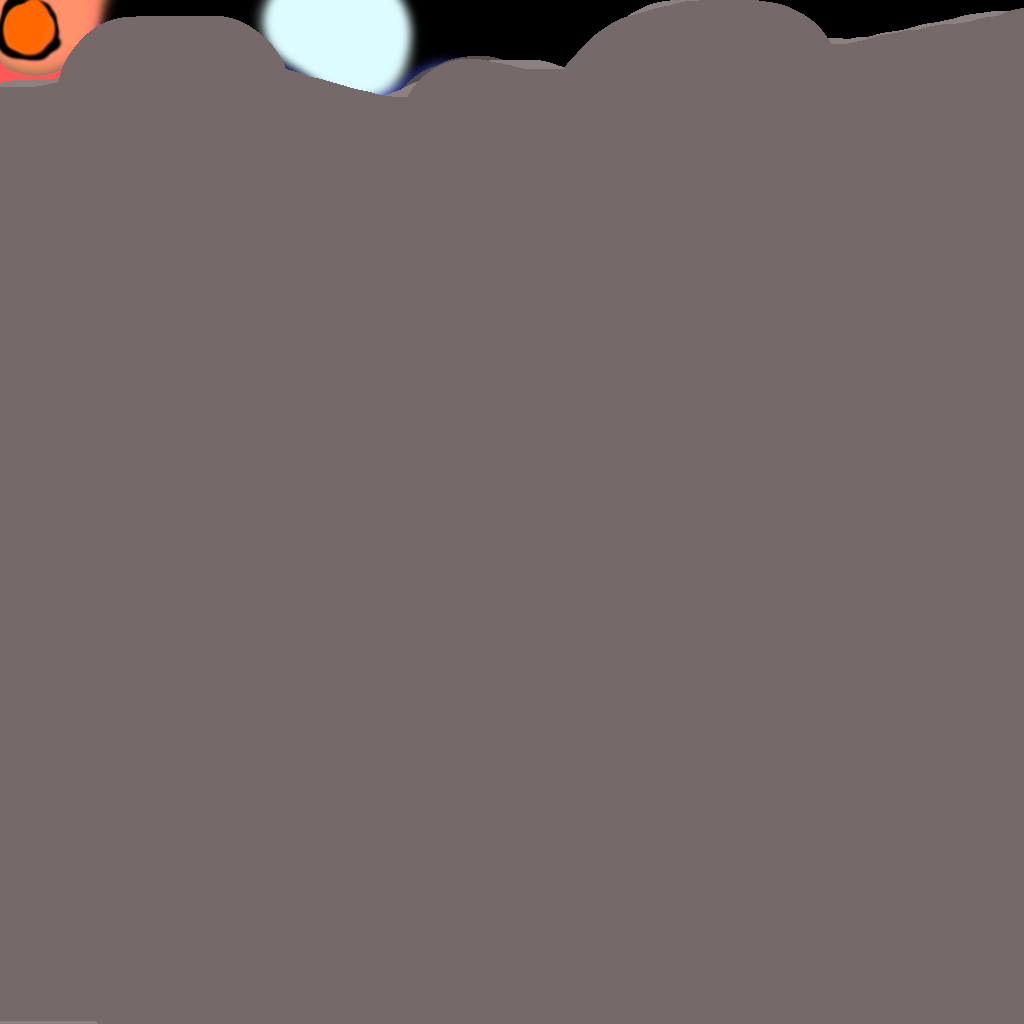
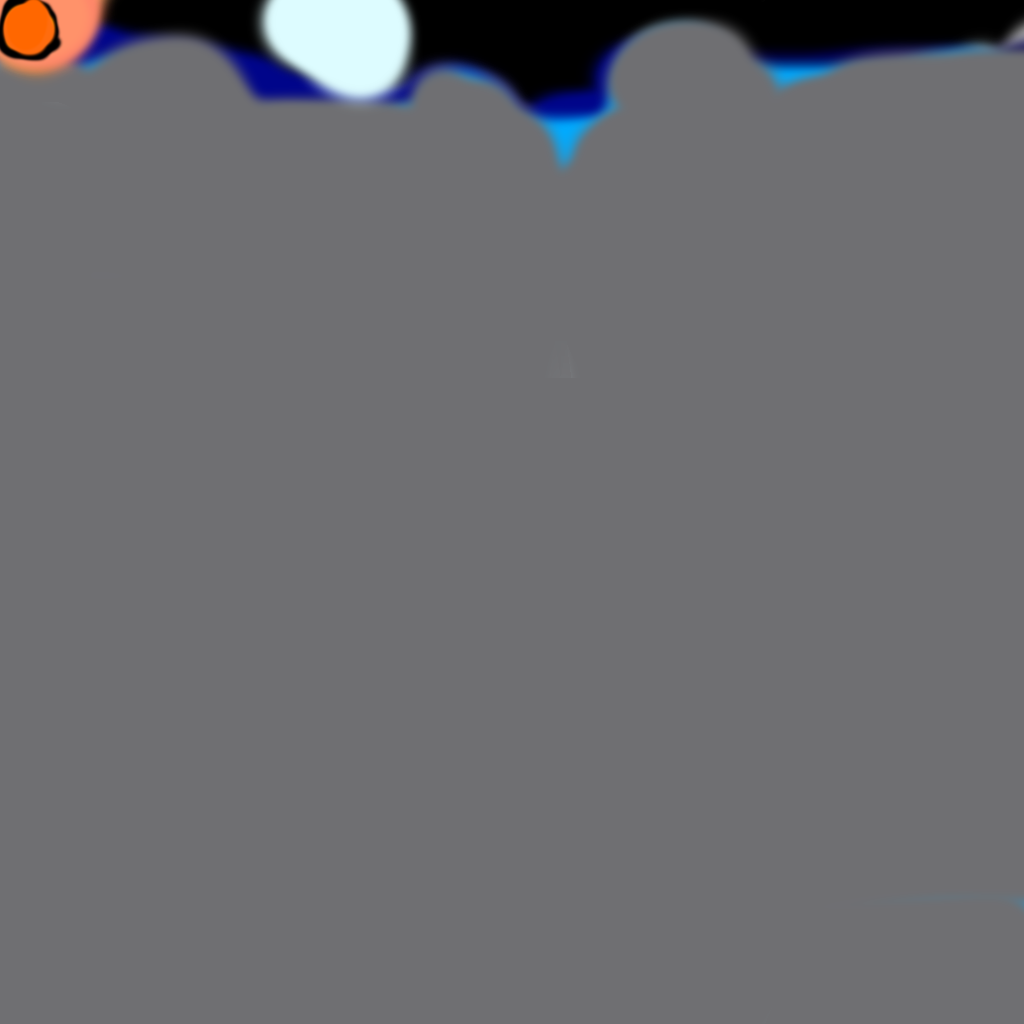
敵の弾壊せるようにした

Changed region(s): [[0.0, 0.0, 1.0, 0.1875]]

diff --git a/DirectXGame/User/Scene/StageSelectScene.cpp b/DirectXGame/User/Scene/StageSelectScene.cpp
@@ -23,6 +23,7 @@ void StageSelectScene::Update()
 void StageSelectScene::Draw()
 {
 	stageNumSprite_->DrawAnimationSpriteX2D(windowsCenter_, 10, stageNum_);
+	SceneChangeAnimation::GetInstance()->Draw();
 }
 
 void StageSelectScene::Select()
